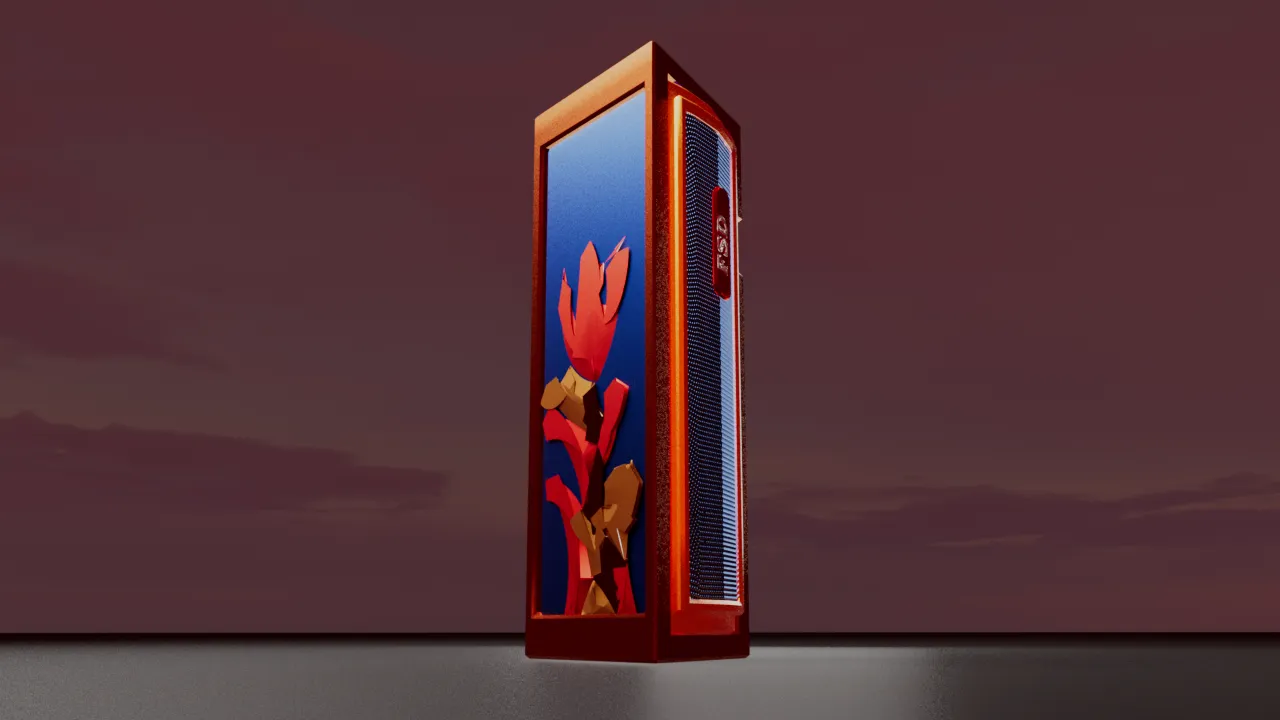
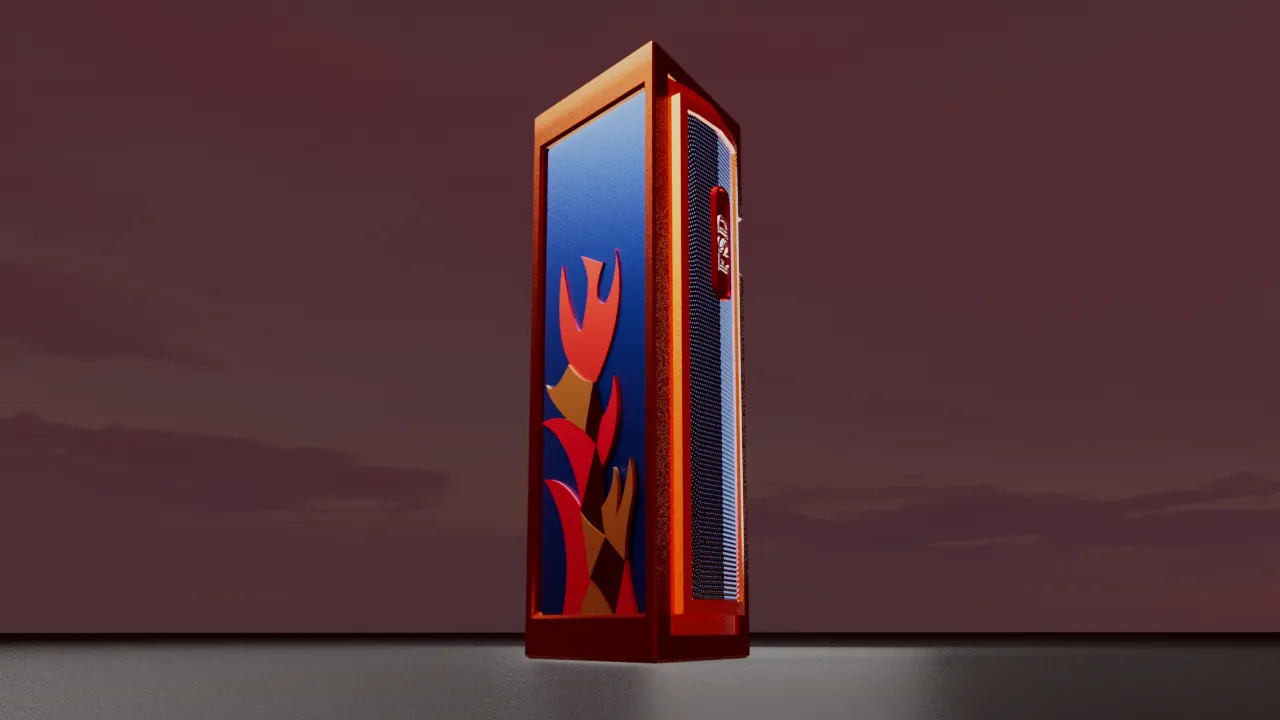
fix: Replace faulty frames
* Replace the frames with incorrect render of the phoenix icon

Changed region(s): [[0.4062, 0.1222, 0.5938, 0.8556]]

diff --git a/css/main.css b/css/main.css
@@ -1,1 +1,1 @@
-@import"https://fonts.googleapis.com/css2?family=Georama:ital,wght@0,100..900;1,100..900&display=swap";nav ul,#main-header nav ul{margin:0;padding:0;list-style:none}#main-header nav ul{display:flex;flex-direction:row;justify-content:center;align-items:center}#main-header nav ul a{text-decoration:none;color:inherit;transition:.25s 0s all cubic-bezier(0.7, 0.68, 0.22, 1)}#hero,.burger,.logo{background-size:cover;background-position:center center;background-repeat:no-repeat}.burger,.logo{min-height:33px;min-width:33px;background-size:contain}:root{font-size:12px}body{font-family:"Georama",Helvetica,sans-serif}h2{text-align:left;margin-block:2.5rem;color:rgb(255,68.1,95.0197530864);z-index:5}@media screen and (min-width: 768px){:root{font-size:calc(1px + 1.25vw)}}@media screen and (min-width: 1200px){:root{font-size:min(1px + 1vw,126px)}}model-viewer{width:auto;max-width:1200px;height:700px;background-image:linear-gradient(#343168, #f30023, #7a75bc);margin:0 auto;position:relative}.Hotspot{background:url(../images/hotspot.svg) center no-repeat;border:0;cursor:pointer;width:45px;aspect-ratio:1/1}.Hotspot:not([data-visible]){opacity:0;pointer-events:none}.Hotspot:focus{border:4px solid #0080c8;height:32px;outline:none}.HotspotAnnotation{opacity:0;visibility:hidden;transition:all .5s ease-in-out;background:#000;border-radius:4px;box-shadow:0 2px 4px hsla(0,0%,100%,.25);color:#fff;display:grid;grid-template-columns:23.3% 1fr;align-items:end;gap:1rem;font-family:"Georama",Helvetica Neue,sans-serif;font-size:1.15rem;font-weight:700;max-width:min(30vw,250px);overflow-wrap:break-word;padding:.5rem 1rem;position:absolute;bottom:-100%;left:calc(100% + 1rem);width:-moz-max-content;width:max-content;text-align:left}.Hotspot:hover .HotspotAnnotation{opacity:1;visibility:visible}.HotspotAnnotation p{font-size:.92rem;line-height:1.5rem;font-weight:300;grid-area:2/1/3/3}.HotspotAnnotation p.title{font-size:1.3rem;font-weight:500;grid-area:1/2/2/3}.HotspotAnnotation img{aspect-ratio:1/1;justify-self:end;background-color:#cfcfcf;grid-area:1/1/2/2}model-viewer::part(default-progress-bar){height:30px;background-color:#e89b36}model-viewer::part(default-progress-mask){display:none}header{display:flex;flex-direction:column-reverse}#main-header{position:sticky;z-index:10;inset:0;height:-moz-fit-content;height:fit-content;padding:1dvh 2vw;align-items:center;background-color:#000;overflow:hidden;color:#fff}#main-header nav{opacity:0;max-height:0}#main-header nav ul li a:hover{color:#ff425e}#main-header #nav-links{text-transform:uppercase;font-size:1rem;font-weight:500}#main-header #nav-links li{margin-inline:1.55rem}#main-header #nav-icons{font-size:1.75rem;justify-content:end}#main-header #nav-icons li{margin-inline:.5rem}#main-header .logo{background-position:left center;margin-top:.5rem;height:3.5rem;max-height:40px}@media screen and (max-width: 768px){#burger-btn{justify-self:end}#burger-btn.clicked+nav{opacity:1;max-height:100vh;margin-top:3rem;border-top:2px solid #fff}#burger-btn.clicked+nav #nav-links{margin-top:1rem;flex-direction:column;align-items:start;padding-bottom:5dvh}#burger-btn.clicked+nav #nav-links li:not(:last-child){margin-bottom:1.5rem}#burger-btn.clicked+nav #nav-icons{margin-top:2rem;order:-1}}@media screen and (min-width: 768px){#main-header .logo{max-height:unset}#main-header nav{opacity:1;max-height:100vh}#burger-btn{display:none}}.logo{cursor:pointer;background-image:url(../images/fsd-logoW.svg)}.burger{background-color:rgba(0,0,0,0);border:none;cursor:pointer}.burger{aspect-ratio:1/1 !important;width:3rem;aspect-ratio:1/1;background-image:url(../images/burger_icon.svg);filter:invert(100%);transition:.25s 0s transform cubic-bezier(0.7, 0.68, 0.22, 1)}.burger.clicked{transform:rotate(90deg)}body{background-color:#000}#hero{position:relative;overflow:hidden;height:90dvh;padding:2% 7%;background-image:url(../images/hero-promo2.jpg)}#hero::before{content:"";position:absolute;inset:0 0;width:100%;height:100%;background-image:linear-gradient(rgba(18, 1, 188, 0.062745098), rgba(18, 1, 188, 0.1882352941) 40%, rgba(33, 3, 0, 0.8862745098) 97%);background-blend-mode:multiply}#hero>section{height:100%}#intro-text{z-index:2;align-self:end}#intro-text img{width:100%;filter:drop-shadow(4px 4px 4px rgba(0, 0, 0, 0.5137254902))}@media screen and (min-width: 768px){#hero{padding:2% 5%}}@media screen and (min-aspect-ratio: 3/1){#hero{height:unset;aspect-ratio:16/9}}@media screen and (max-aspect-ratio: 1/3){#hero>section{height:20%}}/*# sourceMappingURL=main.css.map */
+@import"https://fonts.googleapis.com/css2?family=Georama:ital,wght@0,100..900;1,100..900&display=swap";nav ul,#main-header nav ul{margin:0;padding:0;list-style:none}#main-header nav ul{display:flex;flex-direction:row;justify-content:center;align-items:center}#main-header nav ul a{text-decoration:none;color:inherit;transition:.25s 0s all cubic-bezier(0.7, 0.68, 0.22, 1)}#hero,.burger,.logo{background-size:cover;background-position:center center;background-repeat:no-repeat}.burger,.logo{min-height:33px;min-width:33px;background-size:contain}:root{font-size:12px}body{font-family:"Georama",Helvetica,sans-serif}h2{text-align:left;margin-block:2.5rem;color:rgb(255,68.1,95.0197530864);z-index:5}@media screen and (min-width: 768px){:root{font-size:calc(1px + 1.25vw)}}@media screen and (min-width: 1200px){:root{font-size:min(1px + 1vw,126px)}}model-viewer{width:auto;max-width:1200px;height:700px;background-image:linear-gradient(#343168, #f30023, #7a75bc);margin:0 auto;position:relative}.Hotspot{background:url(../images/hotspot.svg) center no-repeat;border:0;cursor:pointer;width:45px;aspect-ratio:1/1}.Hotspot:not([data-visible]){opacity:0;pointer-events:none}.Hotspot:focus{border:4px solid #0080c8;height:32px;outline:none}.HotspotAnnotation{opacity:0;visibility:hidden;transition:all .5s ease-in-out;background:#000;border-radius:4px;box-shadow:0 2px 4px hsla(0,0%,100%,.25);color:#fff;display:grid;grid-template-columns:23.3% 1fr;align-items:end;gap:1rem;font-family:"Georama",Helvetica Neue,sans-serif;font-size:1.15rem;font-weight:700;max-width:min(30vw,250px);overflow-wrap:break-word;padding:.5rem 1rem;position:absolute;bottom:-100%;left:calc(100% + 1rem);width:-moz-max-content;width:max-content;text-align:left}.Hotspot:hover .HotspotAnnotation{opacity:1;visibility:visible}.HotspotAnnotation p{font-size:.92rem;line-height:1.5rem;font-weight:300;grid-area:2/1/3/3}.HotspotAnnotation p.title{font-size:1.3rem;font-weight:500;grid-area:1/2/2/3}.HotspotAnnotation img{aspect-ratio:1/1;justify-self:end;background-color:#cfcfcf;grid-area:1/1/2/2}model-viewer::part(default-progress-bar){height:30px;background-color:#e89b36}model-viewer::part(default-progress-mask){display:none}header{display:flex;flex-direction:column-reverse}#main-header{position:sticky;z-index:10;inset:0;height:-moz-fit-content;height:fit-content;padding:1dvh 2vw;align-items:center;background-color:#000;overflow:hidden;color:#fff}#main-header nav{opacity:0;max-height:0}#main-header nav ul li a:hover{color:#ff425e}#main-header #nav-links{text-transform:uppercase;font-size:1rem;font-weight:500}#main-header #nav-links li{margin-inline:1.55rem}#main-header #nav-icons{font-size:1.75rem;justify-content:end}#main-header #nav-icons li{margin-inline:.5rem}#main-header .logo{background-position:left center;margin-top:.5rem;height:3.5rem;max-height:40px}@media screen and (max-width: 768px){#burger-btn{justify-self:end}#burger-btn.clicked+nav{opacity:1;max-height:100vh;margin-top:3rem;border-top:2px solid #fff}#burger-btn.clicked+nav #nav-links{margin-top:1rem;flex-direction:column;align-items:start;padding-bottom:5dvh}#burger-btn.clicked+nav #nav-links li:not(:last-child){margin-bottom:1.5rem}#burger-btn.clicked+nav #nav-icons{margin-top:2rem;order:-1}}@media screen and (min-width: 768px){#main-header .logo{max-height:unset}#main-header nav{opacity:1;max-height:100vh}#burger-btn{display:none}}#explode-view{margin:0 auto;background-color:red}.logo{cursor:pointer;background-image:url(../images/fsd-logoW.svg)}.burger{background-color:rgba(0,0,0,0);border:none;cursor:pointer}.burger{aspect-ratio:1/1 !important;width:3rem;aspect-ratio:1/1;background-image:url(../images/burger_icon.svg);filter:invert(100%);transition:.25s 0s transform cubic-bezier(0.7, 0.68, 0.22, 1)}.burger.clicked{transform:rotate(90deg)}body{background-color:#000}#hero{position:relative;overflow:hidden;height:90dvh;padding:2% 7%;background-image:url(../images/hero-promo2.jpg)}#hero::before{content:"";position:absolute;inset:0 0;width:100%;height:100%;background-image:linear-gradient(rgba(18, 1, 188, 0.062745098), rgba(18, 1, 188, 0.1882352941) 40%, rgba(33, 3, 0, 0.8862745098) 97%);background-blend-mode:multiply}#hero>section{height:100%}#intro-text{z-index:2;align-self:end}#intro-text img{width:100%;filter:drop-shadow(4px 4px 4px rgba(0, 0, 0, 0.5137254902))}@media screen and (min-width: 768px){#hero{padding:2% 5%}}@media screen and (min-aspect-ratio: 3/1){#hero{height:unset;aspect-ratio:16/9}}@media screen and (max-aspect-ratio: 1/3){#hero>section{height:20%}}/*# sourceMappingURL=main.css.map */

diff --git a/js/main.js b/js/main.js
@@ -54,8 +54,8 @@ const delonixInfo = [
 
 // Canvas Animation
 // populate the image array
-canvas.width = 1920;
-canvas.height = 1080;
+canvas.width = 1280;
+canvas.height = 720;
 
 for(let i = 0; i < frameCount; i++) {
     const img = new Image();
@@ -71,7 +71,6 @@ gsap.to(frames, {
         trigger: "#explode-view",
         pin: true,
         start: "top top",
-        markers: true,
         scrub: 1
     },
     onUpdate: render

diff --git a/sass/components/_canvas.scss b/sass/components/_canvas.scss
@@ -1,0 +1,4 @@
+#explode-view {
+    margin: 0 auto;
+    background-color: red;
+}
